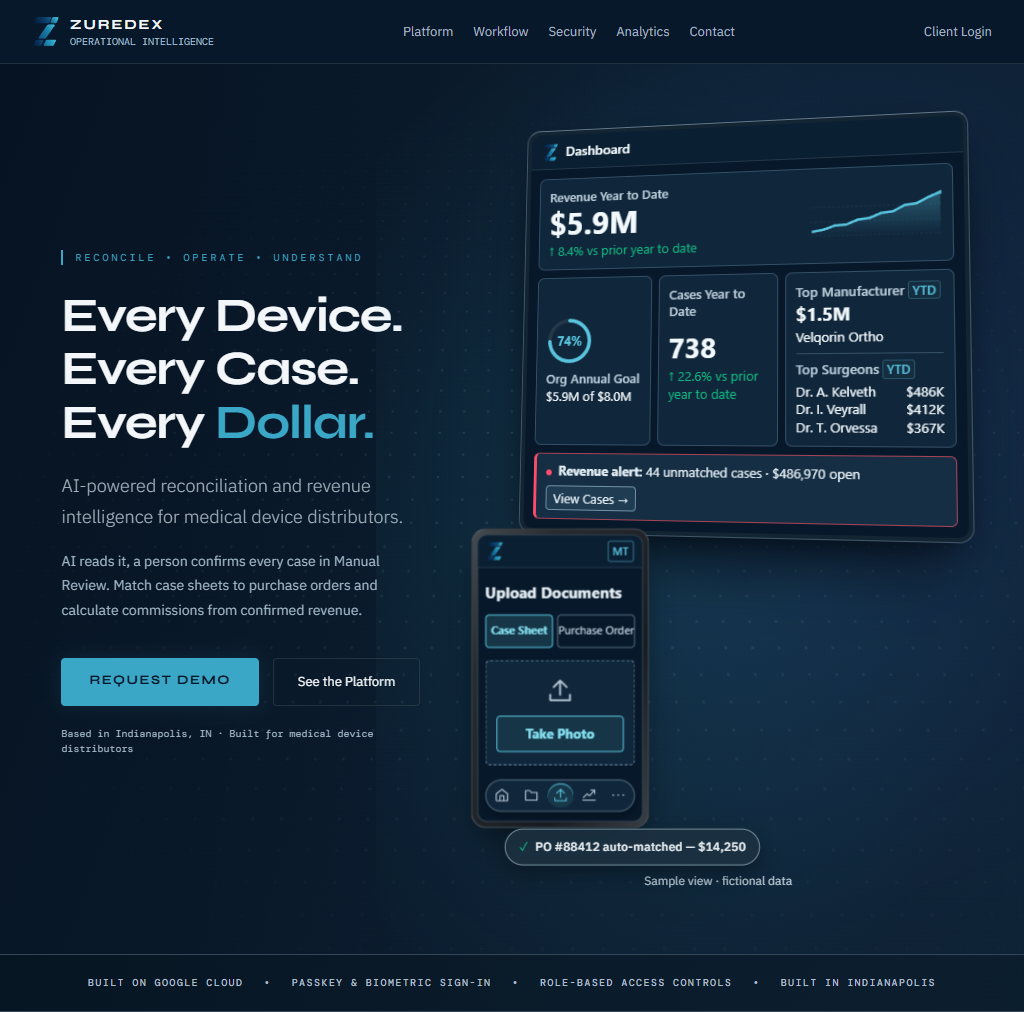
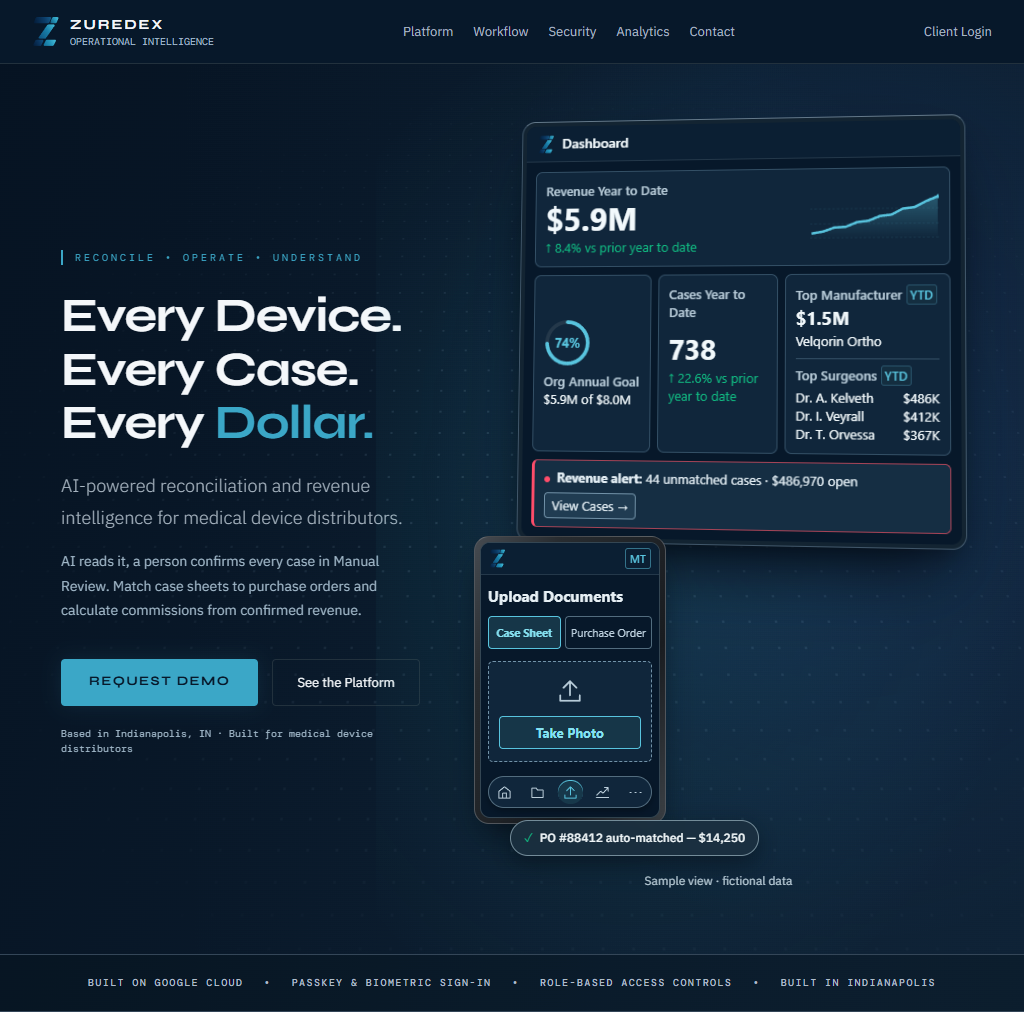
Keep the upload phone crisp and recreate the mobile dashboard

diff --git a/app/showcase.css b/app/showcase.css
@@ -1,13 +1,14 @@
 .hero-grid {
+  --hero-gap: round(nearest, clamp(32px, 5vw, 80px), 1px);
   position: relative;
   z-index: 1;
   display: grid;
-  grid-template-columns: minmax(0, .85fr) minmax(0, 1.15fr);
+  grid-template-columns: minmax(0, 1fr) round(nearest, calc((100% - var(--hero-gap)) * .575), 1px);
   align-items: center;
-  gap: clamp(32px, 5vw, 80px);
+  gap: var(--hero-gap);
   max-width: 1400px;
   margin: auto;
-  padding: 116px clamp(40px, 6vw, 80px) 64px;
+  padding: 116px round(nearest, clamp(40px, 6vw, 80px), 1px) 64px;
 }
 
 .hero-sample {
@@ -24,15 +25,10 @@
 .showcase {
   position: relative;
   isolation: isolate;
-  perspective: 1200px;
   font-family: var(--font-plex), sans-serif;
-}
-
-.showcase-scene {
   display: grid;
   grid-template-columns: 1fr;
   grid-template-rows: auto 66px auto auto;
-  transform-style: preserve-3d;
 }
 
 .dashboard-preview {
@@ -48,13 +44,14 @@
   transform: perspective(1200px) rotateY(-6deg) rotateX(3deg);
 }
 
+.mobile-dashboard { display: none; }
 .dashboard-screen {
   --dash-cyan: #58c4de;
   overflow: hidden;
   border-radius: 10px;
   background: #07182a;
   color: #f2f9fc;
-  font: 13px/1.35 "Segoe UI", sans-serif;
+  font: 13px/18px "Segoe UI", sans-serif;
   font-variant-numeric: tabular-nums;
 }
 .dash-header {
@@ -78,10 +75,10 @@
 }
 .dash-label { color: #b7cbd8; font-weight: 600; }
 .dash-revenue { display: flex; align-items: center; justify-content: space-between; gap: 12px; }
-.dash-total, .dash-cases, .dash-manufacturer { display: block; line-height: 1.15; }
-.dash-total { font-size: 32px; }
-.dash-cases { margin-block: 12px 4px; font-size: 28px; }
-.dash-manufacturer { margin-block: 3px; font-size: 18px; }
+.dash-total, .dash-cases, .dash-manufacturer { display: block; }
+.dash-total { font-size: 32px; line-height: 37px; }
+.dash-cases { margin-block: 12px 4px; font-size: 28px; line-height: 32px; }
+.dash-manufacturer { margin-block: 3px; font-size: 18px; line-height: 21px; }
 .dash-trend { margin-top: 3px; color: #10b981; }
 .dash-spark { width: 32%; height: 44px; color: var(--dash-cyan); }
 .dash-kpis { display: grid; grid-template-columns: 1fr 1fr 1.35fr; gap: 7px; }
@@ -110,7 +107,7 @@
 .dash-alert strong::before { content: ""; display: inline-block; width: 6px; height: 6px; margin-right: 7px; border-radius: 50%; background: #ff4d6a; vertical-align: middle; }
 .dash-view { padding: 3px 7px; border: 1px solid #7292a8; border-radius: 4px; background: #203c52; white-space: nowrap; }
 .dash-pipeline {
-  padding-left: 130px;
+  padding-left: 148px;
   mask-image: linear-gradient(black 78%, transparent 100%);
 }
 .dash-reps { display: grid; grid-template-columns: repeat(2, minmax(0, 1fr)); gap: 7px; margin-top: 5px; }
@@ -121,7 +118,7 @@
 
 .upload-phone {
   grid-area: 2 / 1 / 4;
-  width: 176px;
+  width: 192px;
   align-self: start;
   padding: 5px;
   border: 1px solid #51565c;
@@ -129,7 +126,7 @@
   border-radius: 15px;
   background: linear-gradient(120deg, #464b51, #282c30 24%, #191c20 70%, #3b4045);
   box-shadow: 0 18px 32px -12px #020910dd;
-  transform: translateZ(14px);
+  z-index: 1;
 }
 .phone-screen {
   --phone-cyan: #58c4de;
@@ -138,7 +135,7 @@
   border-radius: 10px;
   background: #07182a;
   color: #e6eff4;
-  font: 11px/1.35 "Segoe UI", sans-serif;
+  font: 11px/15px "Segoe UI", sans-serif;
 }
 .phone-header {
   display: flex;
@@ -151,7 +148,7 @@
 .phone-avatar { padding: 2px 4px; color: var(--phone-cyan); border: 1px solid #34738b; border-radius: 3px; font-weight: 600; }
 .phone-content { display: grid; gap: 12px; padding: 14px 7px; }
 .phone-title { font-size: 15px; }
-.phone-segments { display: grid; grid-template-columns: 1fr 1.12fr; gap: 4px; }
+.phone-segments { display: grid; grid-template-columns: minmax(max-content, 1fr) minmax(max-content, 1.2fr); gap: 4px; }
 .phone-segments span, .phone-photo {
   padding: 8px 0;
   text-align: center;
@@ -160,6 +157,7 @@
   border-radius: 4px;
   color: #bdd0de;
 }
+.phone-segments span { padding-inline: 4px; }
 .phone-segments span:first-child, .phone-photo {
   border-color: var(--phone-cyan);
   background: #163648;
@@ -182,7 +180,7 @@
 }
 .phone-tabs span { display: grid; place-items: center; width: 25px; height: 24px; }
 .phone-tabs svg { width: 15px; height: 15px; }
-.phone-active-tab { color: var(--phone-cyan); background: #17384a; border-radius: 12px; box-shadow: inset 0 1px var(--phone-cyan); }
+.phone-active-tab { color: #58c4de; background: #17384a; border-radius: 12px; box-shadow: inset 0 1px #58c4de; }
 .match-pill {
   grid-area: 4 / 1;
   justify-self: start;
@@ -195,7 +193,7 @@
   background: rgba(27, 48, 64, .88);
   backdrop-filter: blur(10px);
   box-shadow: 0 8px 22px #02091070;
-  transform: translateZ(30px);
+  z-index: 2;
   color: #eff5f7;
   font: 500 12px/1.5 var(--font-plex), sans-serif;
 }
@@ -217,8 +215,8 @@
 .hero-trust li { display: flex; align-items: center; gap: clamp(12px, 2vw, 30px); }
 
 @media (min-width: 768px) and (hover: hover) and (pointer: fine) and (prefers-reduced-motion: no-preference) {
-  .showcase-scene {
-    transform: rotateX(var(--tilt-x, 0deg)) rotateY(var(--tilt-y, 0deg));
+  .dashboard-preview {
+    transform: perspective(1200px) rotateX(var(--tilt-x, 0deg)) rotateY(var(--tilt-y, 0deg)) rotateY(-6deg) rotateX(3deg);
     transition: transform 220ms ease-out;
   }
 }
@@ -232,14 +230,14 @@
 }
 @container (max-width: 510px) {
   .dash-pipeline { display: none; }
-  .showcase-scene { grid-template-rows: auto 8px auto; }
+  .showcase { grid-template-rows: auto 8px auto; }
 }
 @container (max-width: 440px) {
   .dash-surgeons { display: none; }
 }
 @media (768px <= width < 1024px) {
-  .showcase-scene {
-    grid-template-columns: 186px minmax(0, 1fr);
+  .showcase {
+    grid-template-columns: 202px minmax(0, 1fr);
     grid-template-rows: auto auto;
     padding: 16px 12px 16px 28px;
   }
@@ -249,12 +247,49 @@
   .dash-pipeline { padding-left: 0; }
 }
 @media (width < 768px) {
-  .showcase-scene { grid-template-rows: auto auto; }
-  .dashboard-preview { grid-area: 1 / 1; transform: none; margin-left: 0; }
-  .upload-phone { display: none; }
+  .showcase { grid-template-rows: auto auto; }
+  .upload-phone, .dashboard-preview { display: none; }
+  .mobile-dashboard {
+    display: block;
+    grid-area: 1 / 1;
+    pointer-events: none;
+    border-radius: 20px;
+    box-shadow: 0 8px 40px rgba(59, 167, 199, .13);
+  }
+  .mobile-dashboard .dashboard-screen {
+    position: relative;
+    background: transparent;
+    border-radius: inherit;
+  }
+  .mobile-dashboard .dash-body {
+    gap: 10px;
+    padding: 10px 10px 88px;
+    background: var(--glass);
+    border: 1px solid rgba(255, 255, 255, .08);
+    border-top-color: rgba(255, 255, 255, .18);
+    border-radius: inherit;
+    mask-image: linear-gradient(black 80%, transparent);
+  }
+  .mobile-dashboard .dash-card { padding: 12px; }
+  .mobile-dashboard .dash-revenue { padding-block: 16px; }
+  .mobile-dashboard .dash-total { margin-block: 5px; }
+  .mobile-dashboard .dash-kpis { grid-template-columns: repeat(2, minmax(0, 1fr)); gap: 10px; }
+  .mobile-dashboard .dash-kpis > :last-child { grid-column: 1 / -1; }
+  .mobile-dashboard .dash-goal { flex-direction: column; align-content: start; align-items: start; gap: 7px; }
+  .mobile-dashboard .dash-ring { width: 58px; }
+  .mobile-dashboard .dash-surgeons { display: block; }
+  .mobile-dashboard .dash-surgeons dl > div { padding-block: 2px; }
+  .mobile-dashboard .phone-tabs {
+    position: absolute;
+    bottom: 22px;
+    inset-inline: 0;
+    width: min(230px, 85%);
+    margin: auto;
+    padding: 4px 8px;
+  }
+  .mobile-dashboard .phone-tabs span { width: 32px; height: 28px; }
+  .mobile-dashboard .phone-tabs svg { width: 18px; height: 18px; }
   .match-pill { grid-area: 2 / 1; justify-self: center; max-width: 100%; margin: -12px 0 0; }
-  .dash-kpis, .dash-pipeline { display: none; }
-  .dash-spark { width: 32%; }
 }
 @media (max-width: 520px) {
   .hero-trust { grid-template-columns: auto; }

diff --git a/components/SampleDashboard.tsx b/components/SampleDashboard.tsx
@@ -1,15 +1,18 @@
 import { sampleDashboard as data } from "@/lib/sample-data";
+import { SampleAppNav } from "./SampleUploadPhone";
 
-export default function SampleDashboard() {
+export default function SampleDashboard({ mobile = false }: { mobile?: boolean }) {
+  const fillId = mobile ? "mobile-revenue-fill" : "revenue-fill";
   const history = data.revenueHistory;
   const points = history.map((value, i) =>
     `${2 + 196 * i / (history.length - 1)},${47 - 44 * value / history[history.length - 1]}`
   ).join(" ");
 
   return (
-    <div className="dashboard-preview" role="img" aria-label="Sample Zuredex dashboard with fictional data">
+    <div className={mobile ? "mobile-dashboard" : "dashboard-preview"} role="img"
+      aria-label={mobile ? "Sample Zuredex mobile dashboard with fictional data" : "Sample Zuredex dashboard with fictional data"}>
       <div className="dashboard-screen" aria-hidden="true">
-        <div className="dash-header"><span className="dash-symbol" />Dashboard</div>
+        {!mobile && <div className="dash-header"><span className="dash-symbol" />Dashboard</div>}
         <div className="dash-body">
           <div className="dash-card dash-revenue">
             <div>
@@ -19,13 +22,13 @@ export default function SampleDashboard() {
             </div>
             <svg className="dash-spark" viewBox="0 0 200 50" preserveAspectRatio="none">
               <defs>
-                <linearGradient id="revenue-fill" x2="0" y2="1">
+                <linearGradient id={fillId} x2="0" y2="1">
                   <stop stopColor="currentColor" stopOpacity=".32" />
                   <stop offset="1" stopColor="currentColor" stopOpacity="0" />
                 </linearGradient>
               </defs>
               <path d="M0 16h200M0 33h200M0 49h200" stroke="currentColor" opacity=".13" strokeDasharray="3 4" />
-              <polygon points={`2,50 ${points} 198,50`} fill="url(#revenue-fill)" />
+              <polygon points={`2,50 ${points} 198,50`} fill={`url(#${fillId})`} />
               <polyline points={points} fill="none" stroke="currentColor" strokeWidth="2.5" strokeLinejoin="round" vectorEffect="non-scaling-stroke" />
               <circle cx="198" cy="3" r="2" fill="currentColor" />
             </svg>
@@ -58,21 +61,24 @@ export default function SampleDashboard() {
               </div>
             </div>
           </div>
-          <div className="dash-alert">
-            <span><strong>Revenue alert:</strong> {data.unmatchedCases} unmatched cases · {data.openRevenue} open</span>
-            <span className="dash-view">View Cases →</span>
-          </div>
-          <div className="dash-pipeline">
-            <div className="dash-label">Rep Performance · Pipeline</div>
-            <div className="dash-reps">{data.reps.map(rep => (
-              <div className="dash-card" key={rep.name}>
-                <strong>{rep.name}</strong>
-                <div className="dash-territory"><span>{rep.territory}</span><span>{rep.percent}%</span></div>
-                <div className="dash-track"><span style={{width: `${rep.percent}%`}} /></div>
-              </div>
-            ))}</div>
-          </div>
+          {!mobile && <>
+            <div className="dash-alert">
+              <span><strong>Revenue alert:</strong> {data.unmatchedCases} unmatched cases · {data.openRevenue} open</span>
+              <span className="dash-view">View Cases →</span>
+            </div>
+            <div className="dash-pipeline">
+              <div className="dash-label">Rep Performance · Pipeline</div>
+              <div className="dash-reps">{data.reps.map(rep => (
+                <div className="dash-card" key={rep.name}>
+                  <strong>{rep.name}</strong>
+                  <div className="dash-territory"><span>{rep.territory}</span><span>{rep.percent}%</span></div>
+                  <div className="dash-track"><span style={{width: `${rep.percent}%`}} /></div>
+                </div>
+              ))}</div>
+            </div>
+          </>}
         </div>
+        {mobile && <SampleAppNav />}
       </div>
     </div>
   );

diff --git a/components/SampleUploadPhone.tsx b/components/SampleUploadPhone.tsx
@@ -16,6 +16,18 @@ function PhoneIcon({ path }: { path: string }) {
   );
 }
 
+export function SampleAppNav() {
+  return (
+    <div className="phone-tabs">
+      {tabs.map(tab => (
+        <span key={tab.label} className={tab.label === "Upload" ? "phone-active-tab" : undefined}>
+          <PhoneIcon path={tab.path} />
+        </span>
+      ))}
+    </div>
+  );
+}
+
 export default function SampleUploadPhone() {
   const initials = sampleDashboard.reps[0].name.split(" ").map(part => part[0]).join("");
   return (
@@ -32,13 +44,7 @@ export default function SampleUploadPhone() {
             <span className="phone-photo">Take Photo</span>
           </div>
         </div>
-        <div className="phone-tabs">
-          {tabs.map(tab => (
-            <span key={tab.label} className={tab.label === "Upload" ? "phone-active-tab" : undefined}>
-              <PhoneIcon path={tab.path} />
-            </span>
-          ))}
-        </div>
+        <SampleAppNav />
       </div>
     </div>
   );

diff --git a/app/page.tsx b/app/page.tsx
@@ -83,6 +83,7 @@ export default function Page() {
           <figure className="hero-sample">
             <ShowcaseTilt>
               <SampleDashboard />
+              <SampleDashboard mobile />
               <SampleUploadPhone />
               <p className="match-pill">
                 <span className="match-check" aria-hidden="true">✓</span> PO #{sampleMatchedPO.number} auto-matched — {sampleMatchedPO.amount}

diff --git a/components/ShowcaseTilt.tsx b/components/ShowcaseTilt.tsx
@@ -56,5 +56,5 @@ export default function ShowcaseTilt({ children }: { children: ReactNode }) {
     };
   }, []);
 
-  return <div ref={ref} className="showcase"><div className="showcase-scene">{children}</div></div>;
+  return <div ref={ref} className="showcase">{children}</div>;
 }
